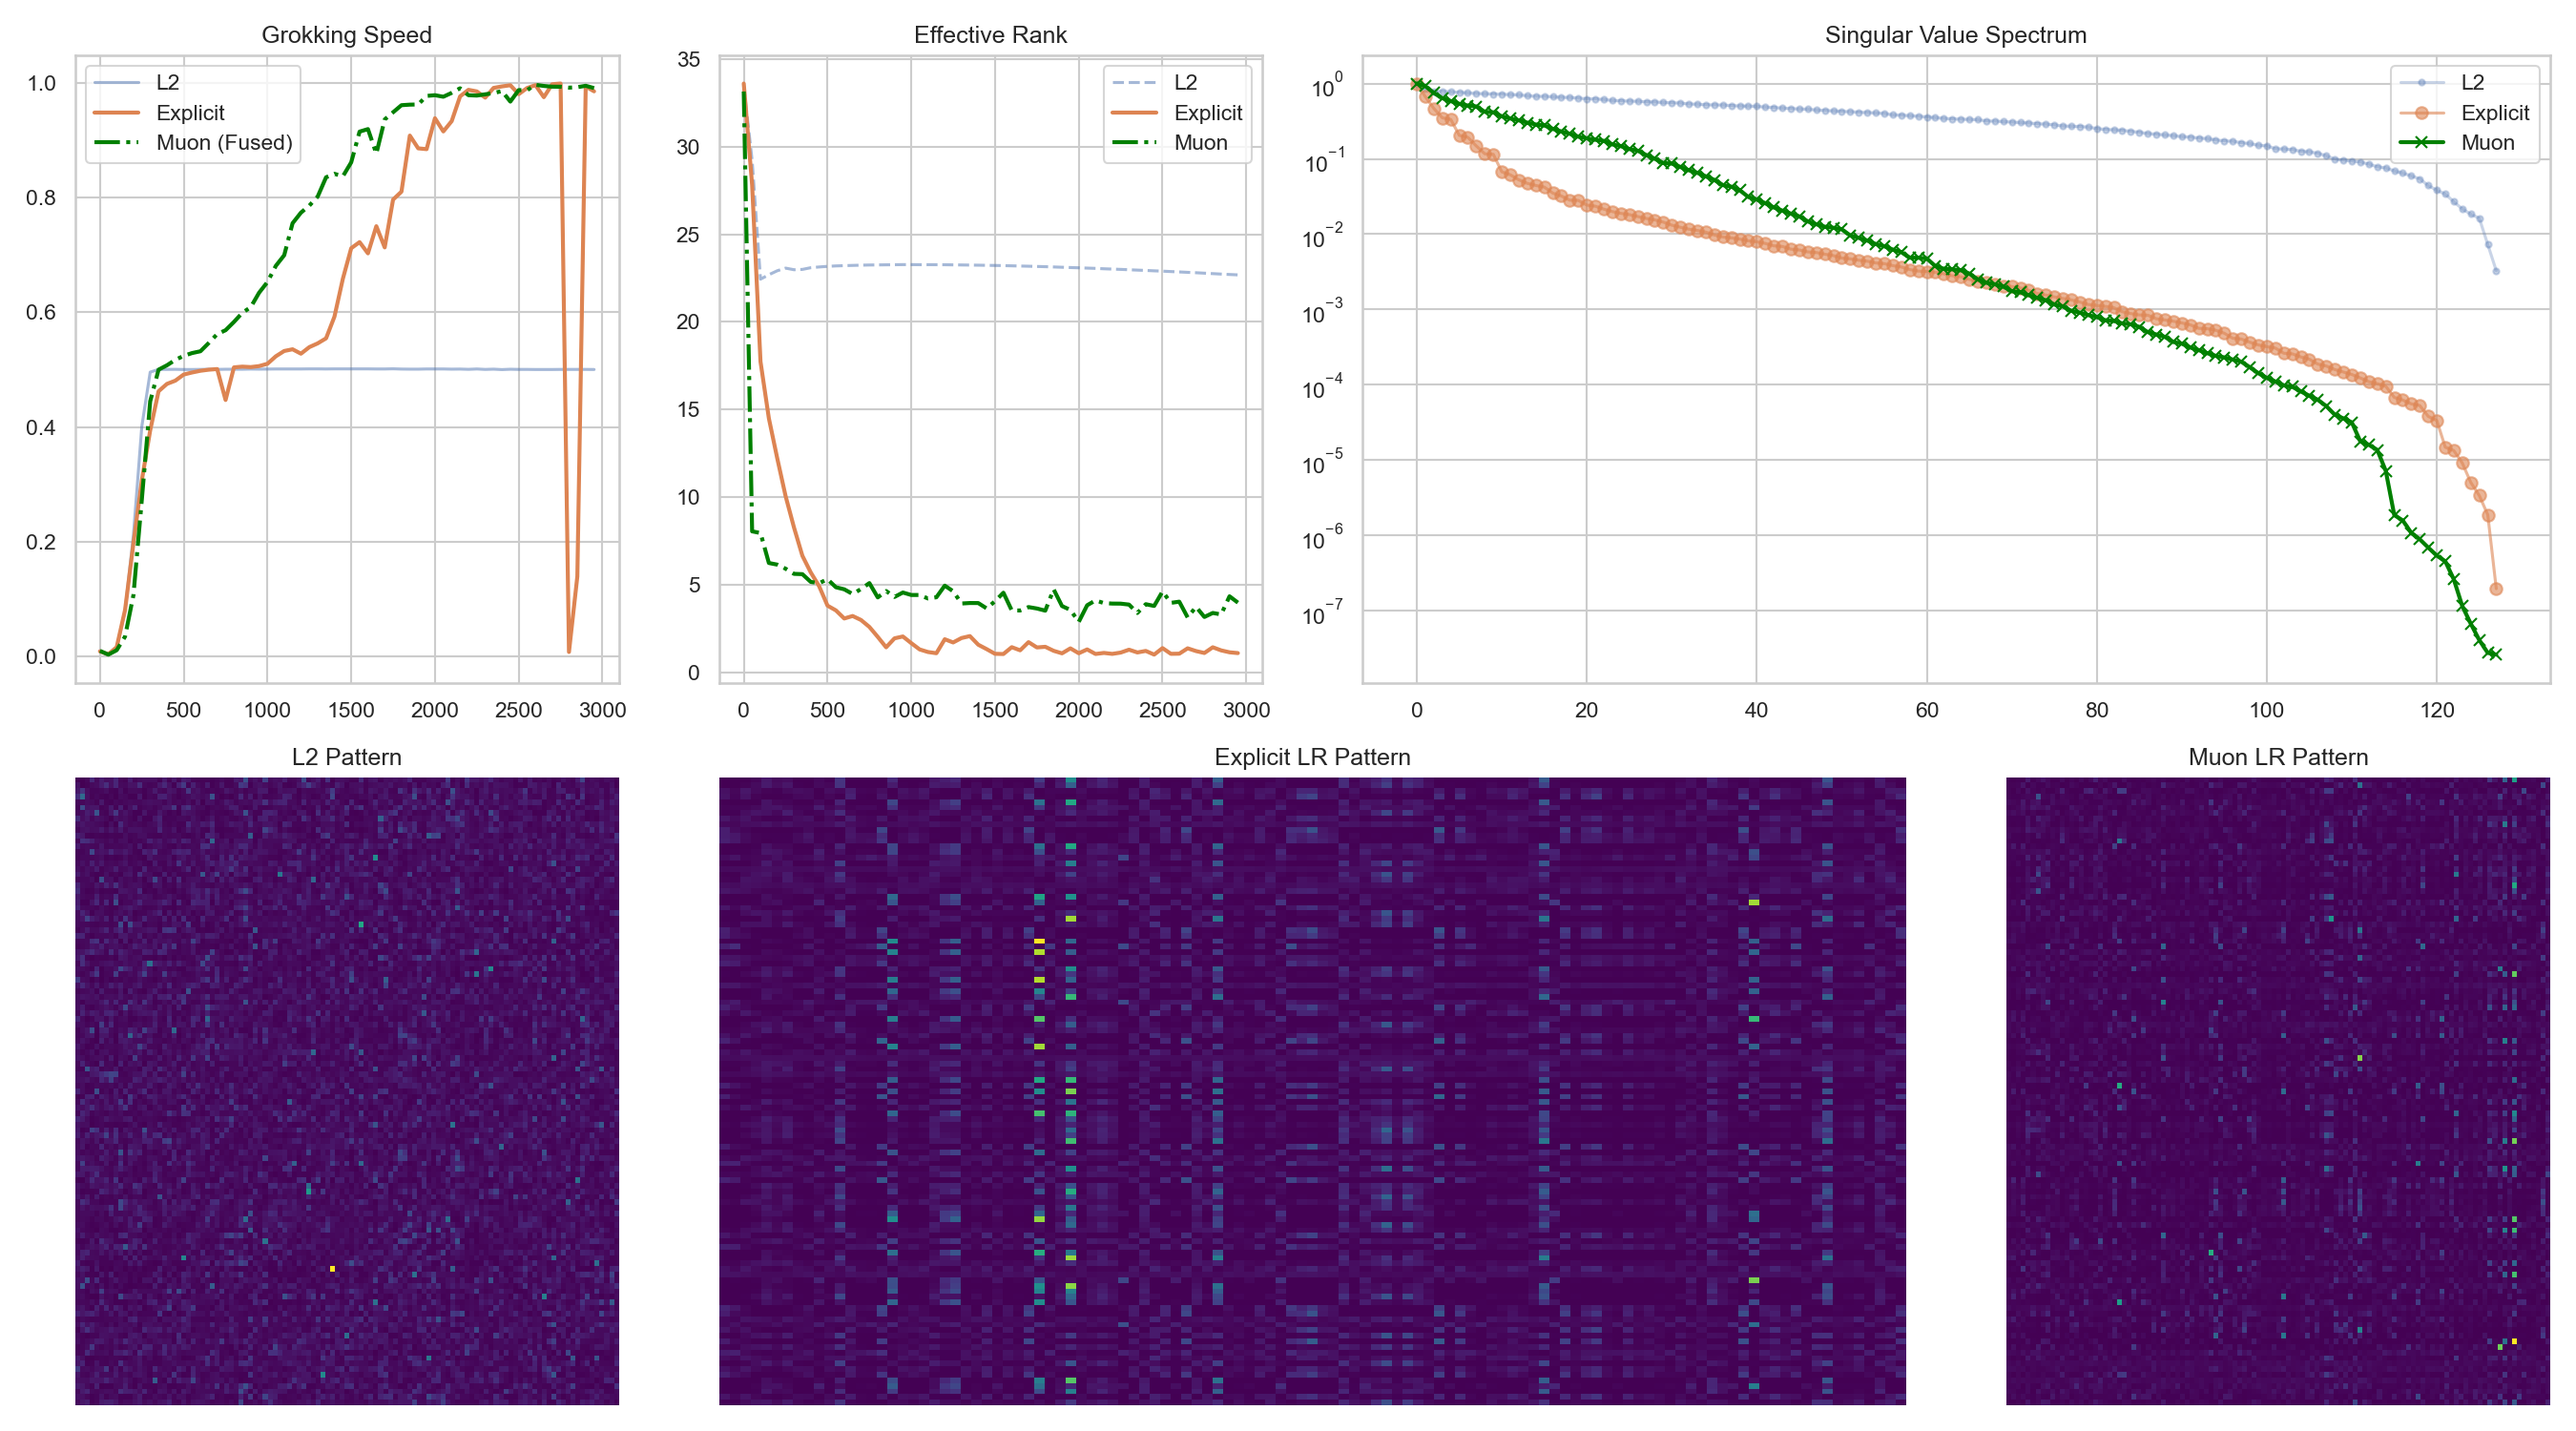
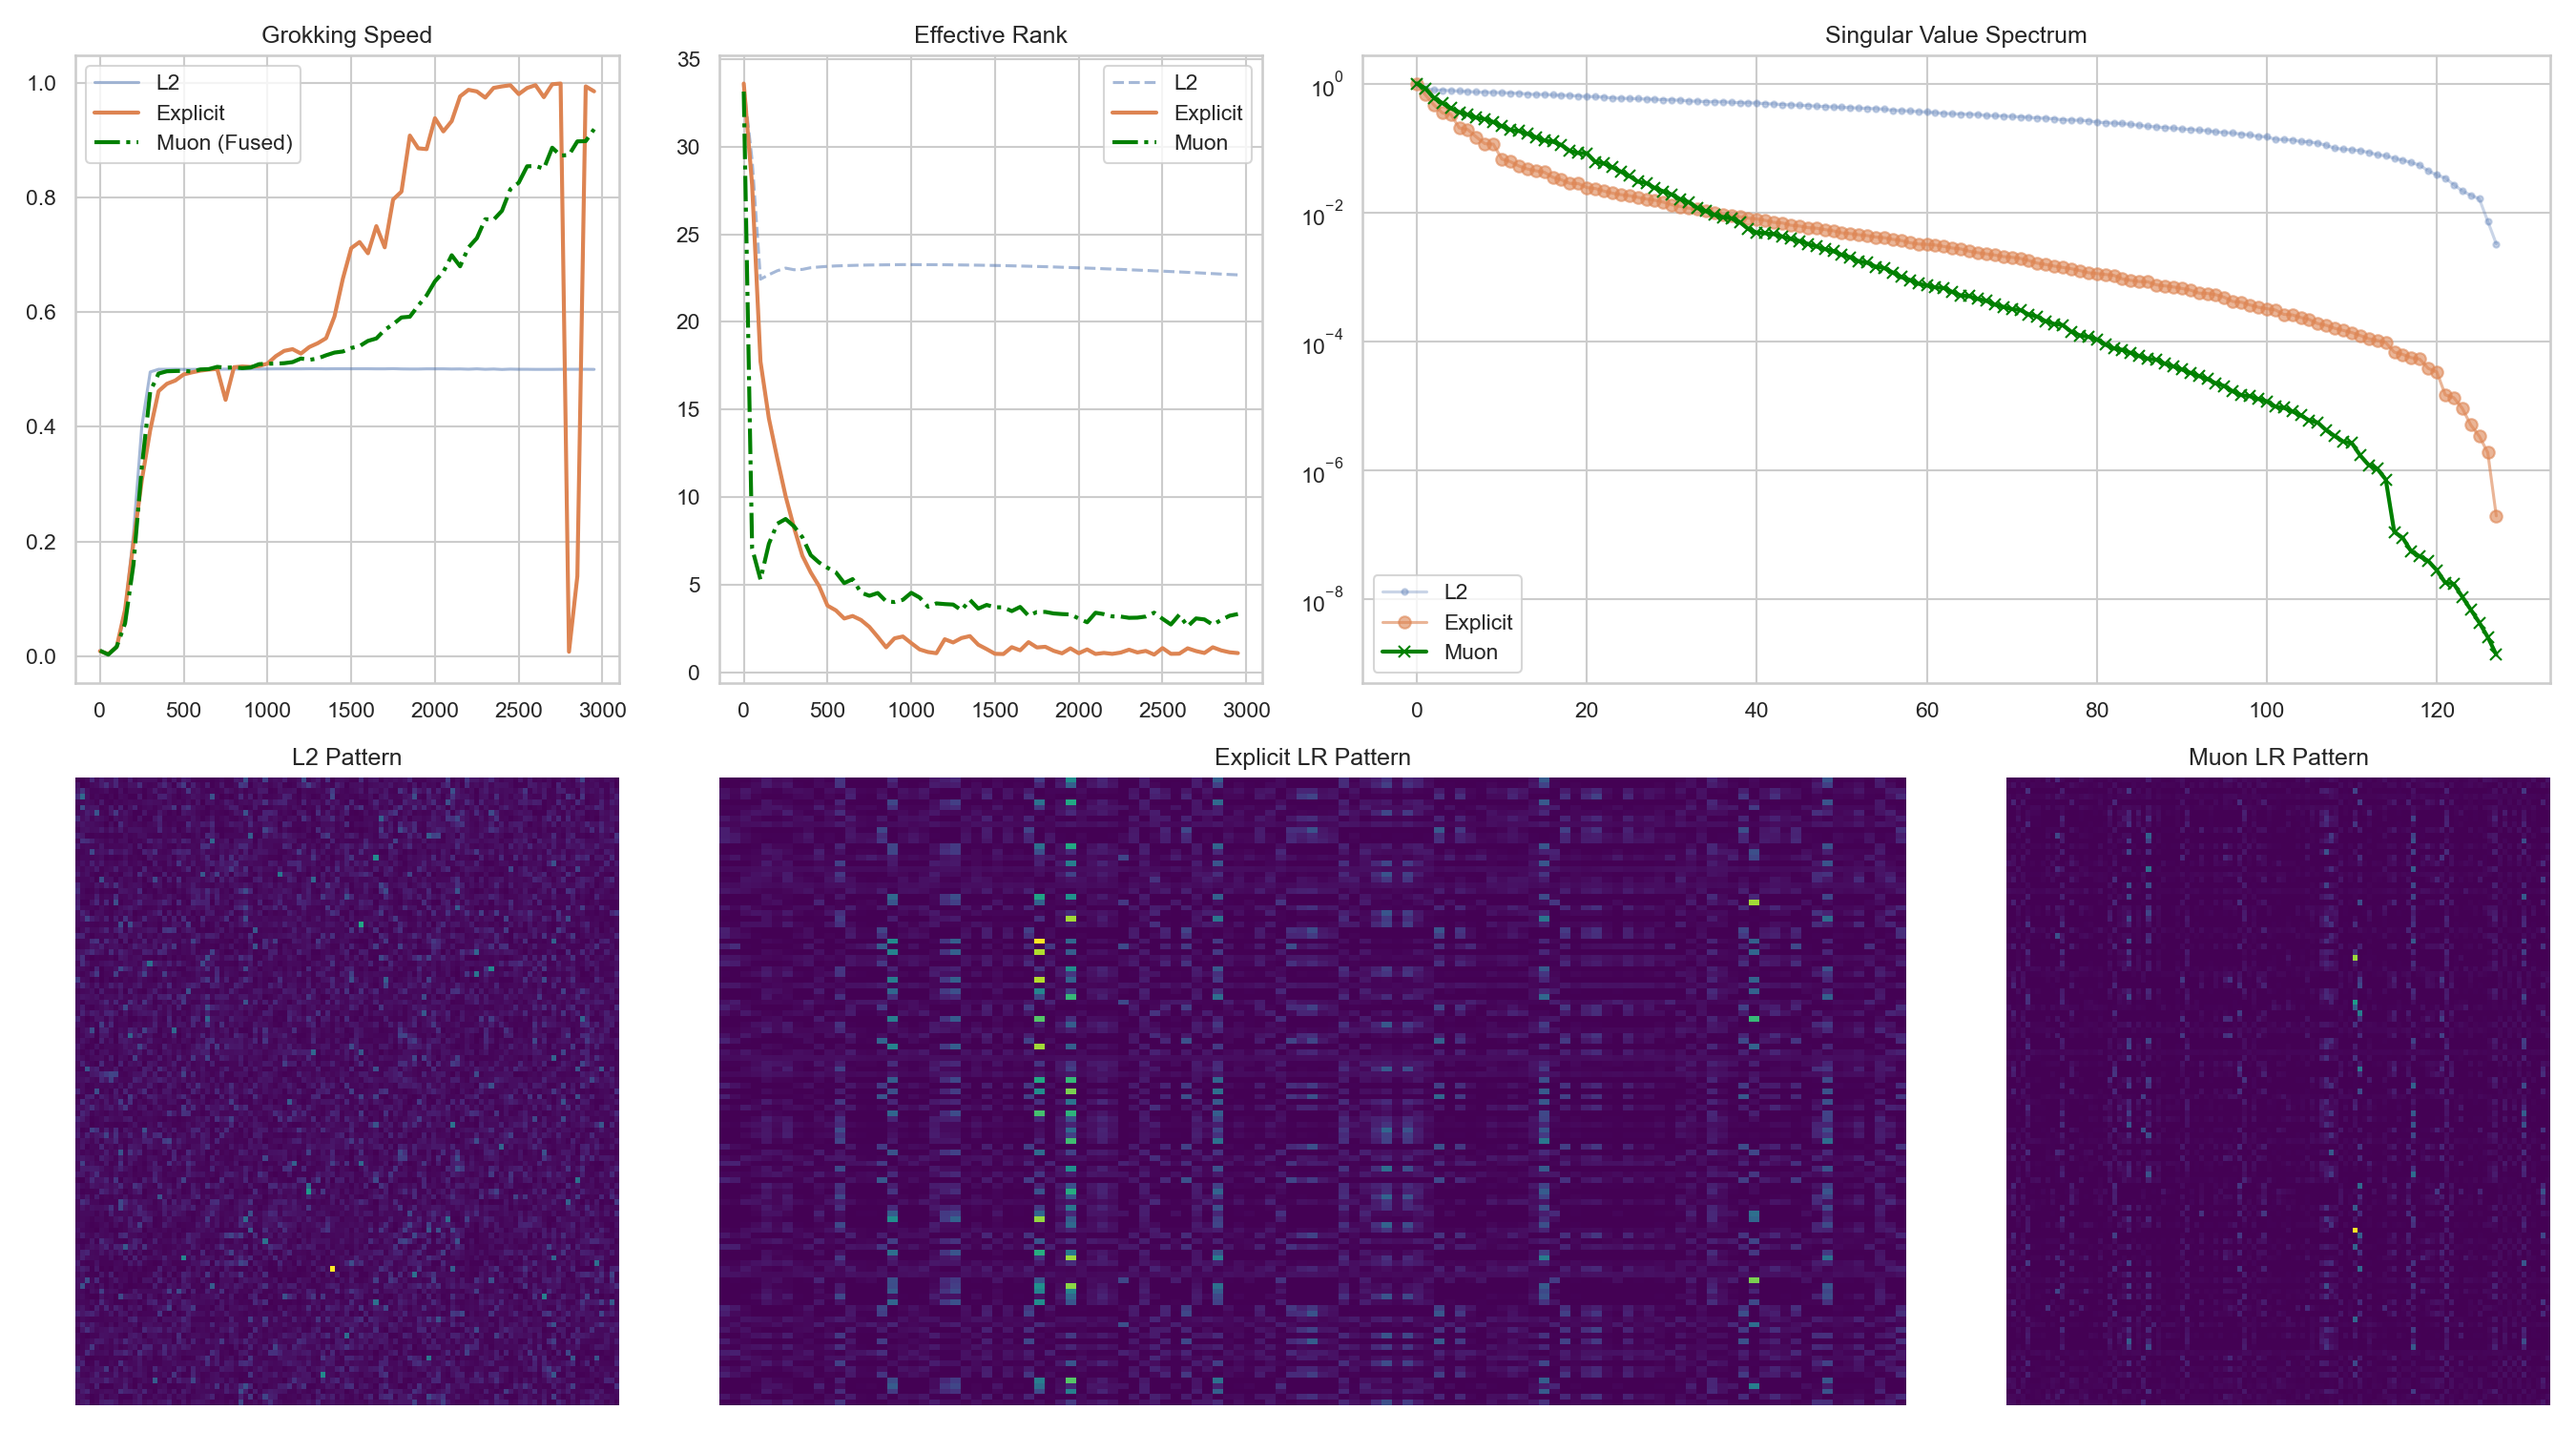
Refactor momentum update and fix documentation
Refactored the HybridLowRankMuon optimizer to strictly implement the update as W_{t+1} = W_t - eta * Op(G + lambda*W), updating the momentum with the fused gradient. Updated README and code comments to clarify the correct update rule. Changed explicit LowRank rate in mechanism analysis from 0.005 to 0.01 and updated the output path for the analysis plot.

diff --git a/Luon.py b/Luon.py
@@ -138,17 +138,18 @@ class HybridLowRankMuon(optim.Optimizer):
                     buf = state['momentum_buffer']
 
                     # -----------------------------------------------------------
-                    # Implementation of: W_{t+1} = W_t - eta * NS(Momentum(G) + lambda*W)
+                    # Strict Implementation of: W_{t+1} = W_t - eta * Op(G + lambda*W)
                     # -----------------------------------------------------------
 
-                    # 1. Update Momentum: M_{t+1} = mu * M_t + G
-                    buf.mul_(mu).add_(g)
+                    # 1. Construct the Fused Gradient: G_tilde = G + lambda * W
+                    g_fused = g + wd * p
 
-                    # 2. Fuse with Weight Decay: M_fused = M + lambda * W
-                    m_fused = buf + wd * p
+                    # 2. Update Momentum: M_{t+1} = mu * M_t + G_tilde
+                    buf.mul_(mu).add_(g_fused)
 
-                    # 3. Apply Operator: U = NewtonSchulz(M_fused)
-                    update_direction = newton_schulz_robust(m_fused, steps=5)
+                    # 3. Apply Operator: U = NewtonSchulz(M_{t+1})
+                    # Note: We clone buf to avoid modifying the momentum buffer during NS
+                    update_direction = newton_schulz_robust(buf.clone(), steps=5)
 
                     # 4. Apply Update: W_{t+1} = W_t - lr * U
                     p.sub_(lr * update_direction)
@@ -387,7 +388,7 @@ def run_mechanism_analysis(args):
     # --- 2. Explicit LowRank ---
     # rate = 0.005 is subtracted DIRECTLY from weights.
     print("2. Explicit LowRank...")
-    hist_lr, model_lr = train_run(args, 'LowRank', 0.005, args.device)
+    hist_lr, model_lr = train_run(args, 'LowRank', 0.01, args.device)
 
     # --- 3. LowRank Muon (Fused) ---
     # Using high lambda to ensure NS(G + lambda*W) feels the W.
@@ -459,8 +460,8 @@ def run_mechanism_analysis(args):
     plot_attn(model_muon, ax6, "Muon LR Pattern")
 
     plt.tight_layout()
-    plt.savefig("assets/mechanism_analysis_final.png", dpi=150)
-    print("Done. Saved to assets/mechanism_analysis_final.png")
+    plt.savefig("mechanism_analysis_final.png", dpi=150)
+    print("Done. Saved to mechanism_analysis_final.png")
 
 if __name__ == "__main__":
     parser = argparse.ArgumentParser()

diff --git a/README.md b/README.md
@@ -16,7 +16,7 @@
 |------|--------|-------------|----------|
 | **L2 Baseline** | AdamW | Weight Decay | $W \leftarrow W - \lambda W$ |
 | **Explicit LowRank** | AdamW + 回调 | 解耦的核范数衰减 | $W \leftarrow W - \alpha \cdot \text{Sign}(W)$ |
-| **Luon (Fused)** | Muon + AdamW | 融合的核范数衰减 | $W \leftarrow W - \eta \cdot \text{NS}(\text{Momentum}(G) + \lambda W)$ |
+| **Luon (Fused)** | Muon + AdamW | 融合的核范数衰减 | $W \leftarrow W - \eta \cdot \text{NS}(\text{Momentum}(G + \lambda W))$ |
 
 ---
 
@@ -61,7 +61,7 @@ $$\text{Sign}(W) = W (W^T W)^{-1/2} \approx U V^T$$
 
 为了避免双重计算，我们提出将核范数正则项 **融合** 进 Muon 的梯度更新中：
 
-$$\text{Update} = \text{NS}\big(\text{Momentum}(G) + \lambda W\big)$$
+$$\text{Update} = \text{NS}\big(\text{Momentum}(G + \lambda W)\big)$$
 
 这样只需一次 Newton-Schulz 迭代，效率提升近一倍。我称之为 **"回到 Adam"**——正则项重新融入梯度，但这次是正确的。
 
@@ -121,9 +121,9 @@ class NewtonSchulzLowRankDecay:
 class HybridLowRankMuon(Optimizer):
     def step(self):
         # 对目标参数 (Q, K) 使用 Muon + 融合低秩
-        momentum.mul_(mu).add_(grad)          # 动量更新 (只对梯度)
-        m_fused = momentum + lambda * W       # 融合: Momentum(G) + λW
-        update = newton_schulz(m_fused)       # 正交化
+        g_fused = grad + lambda * W           # 融合梯度
+        momentum.mul_(mu).add_(g_fused)       # 动量更新
+        update = newton_schulz(momentum)      # 正交化
         W.sub_(lr * update)                   # 参数更新
 
         # 其他参数使用标准 AdamW
